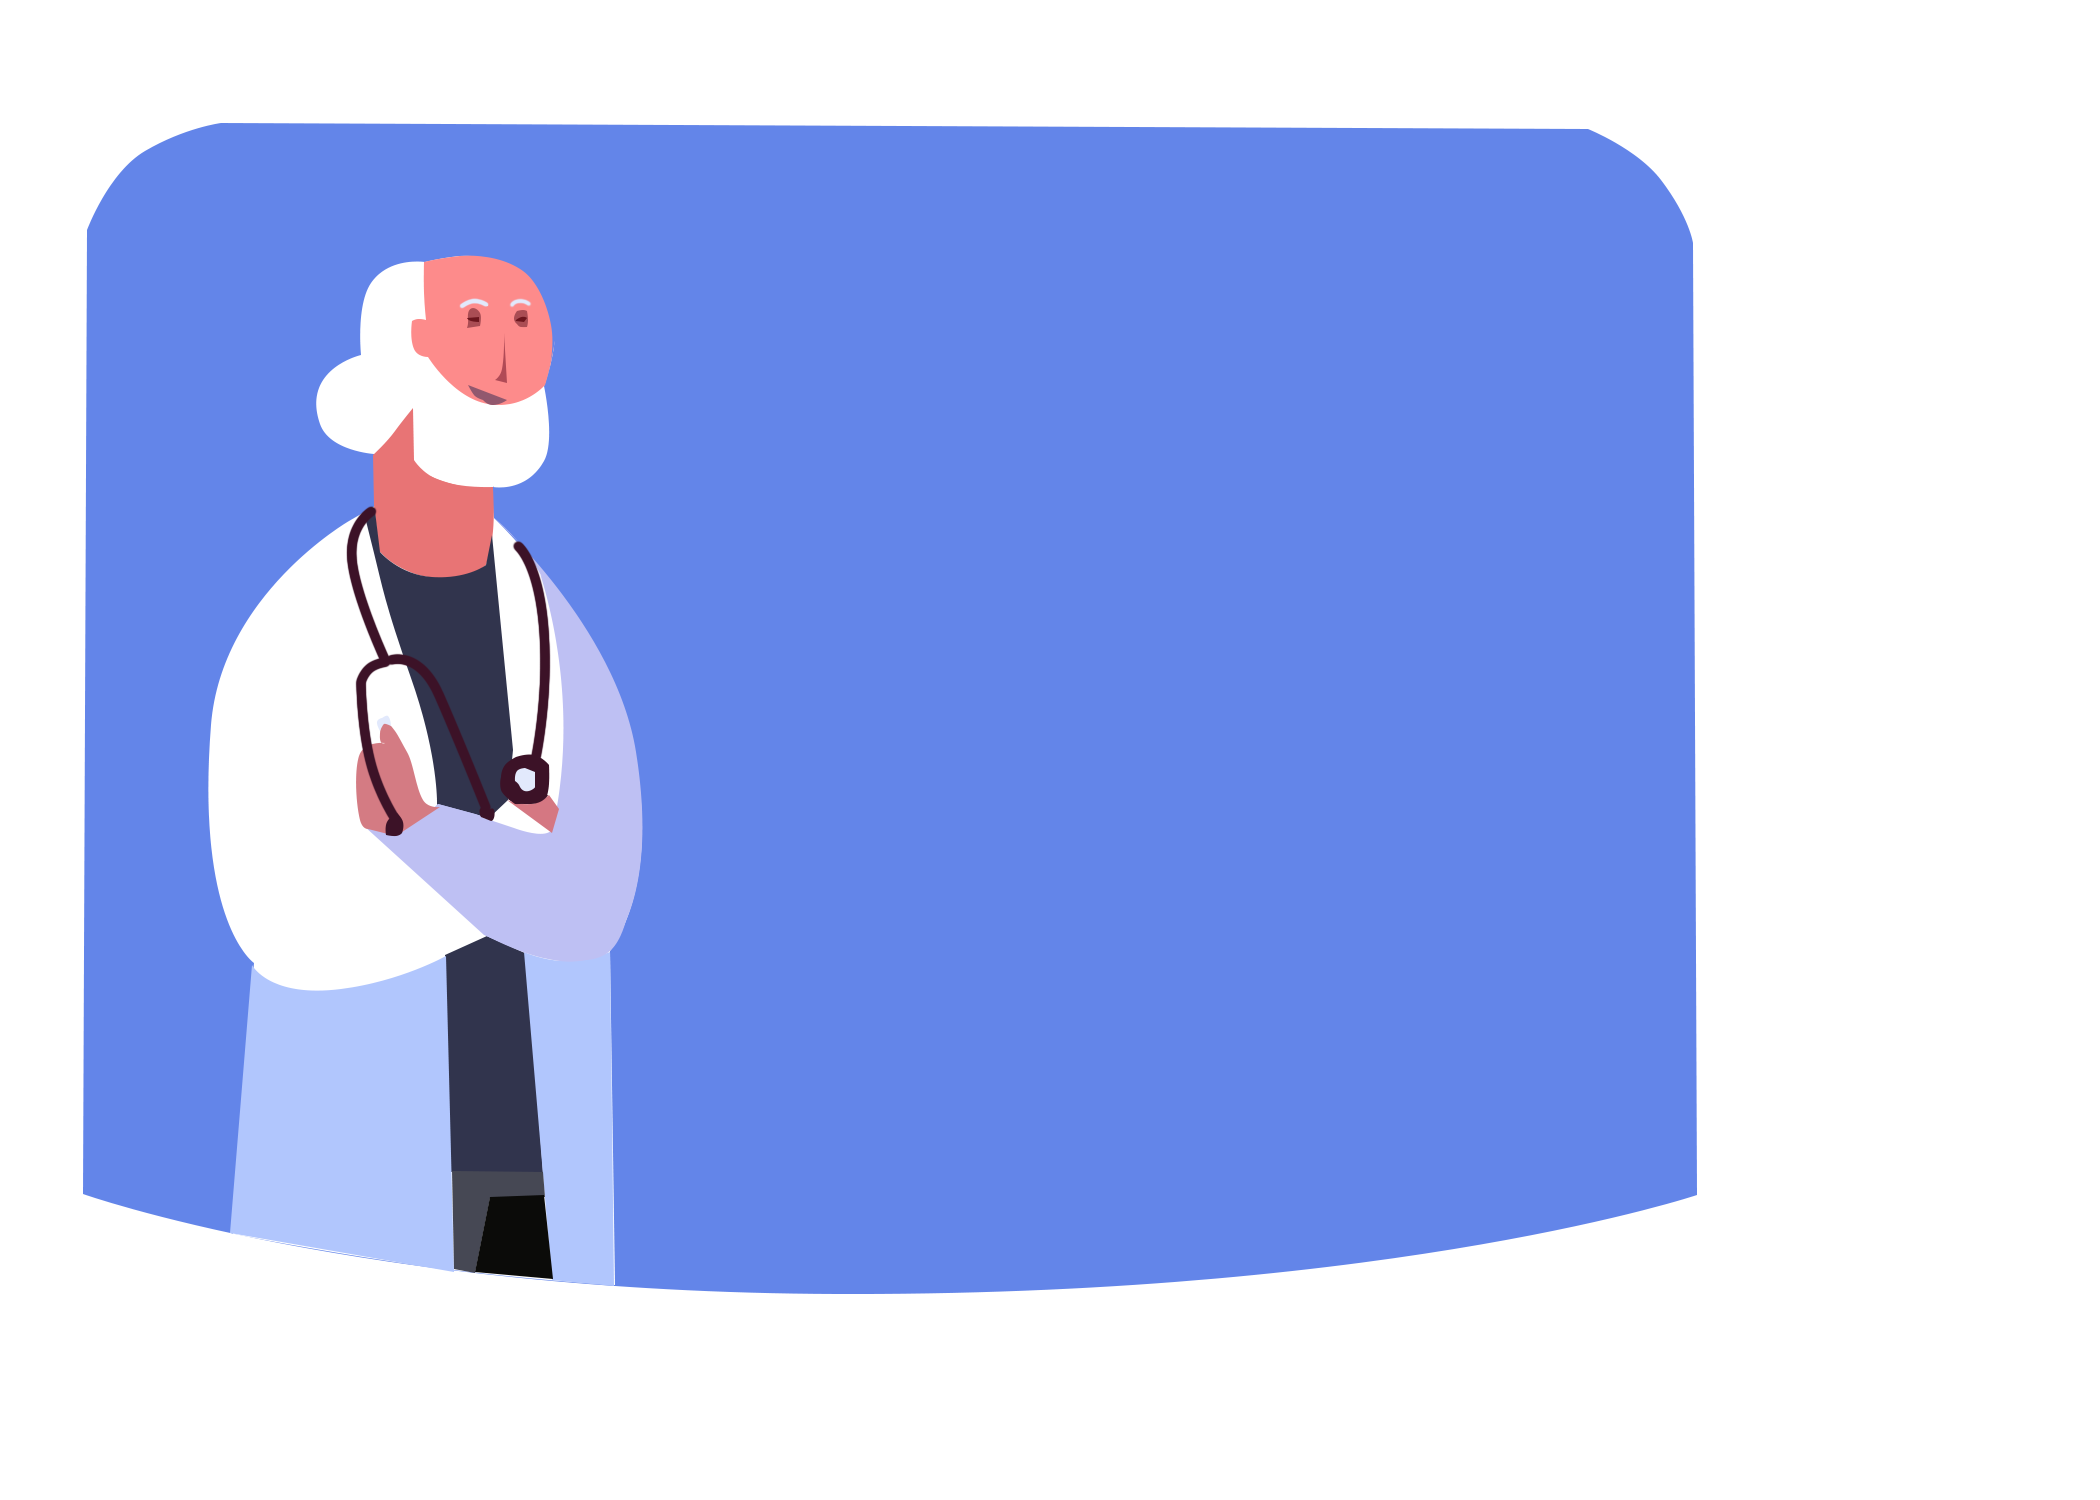
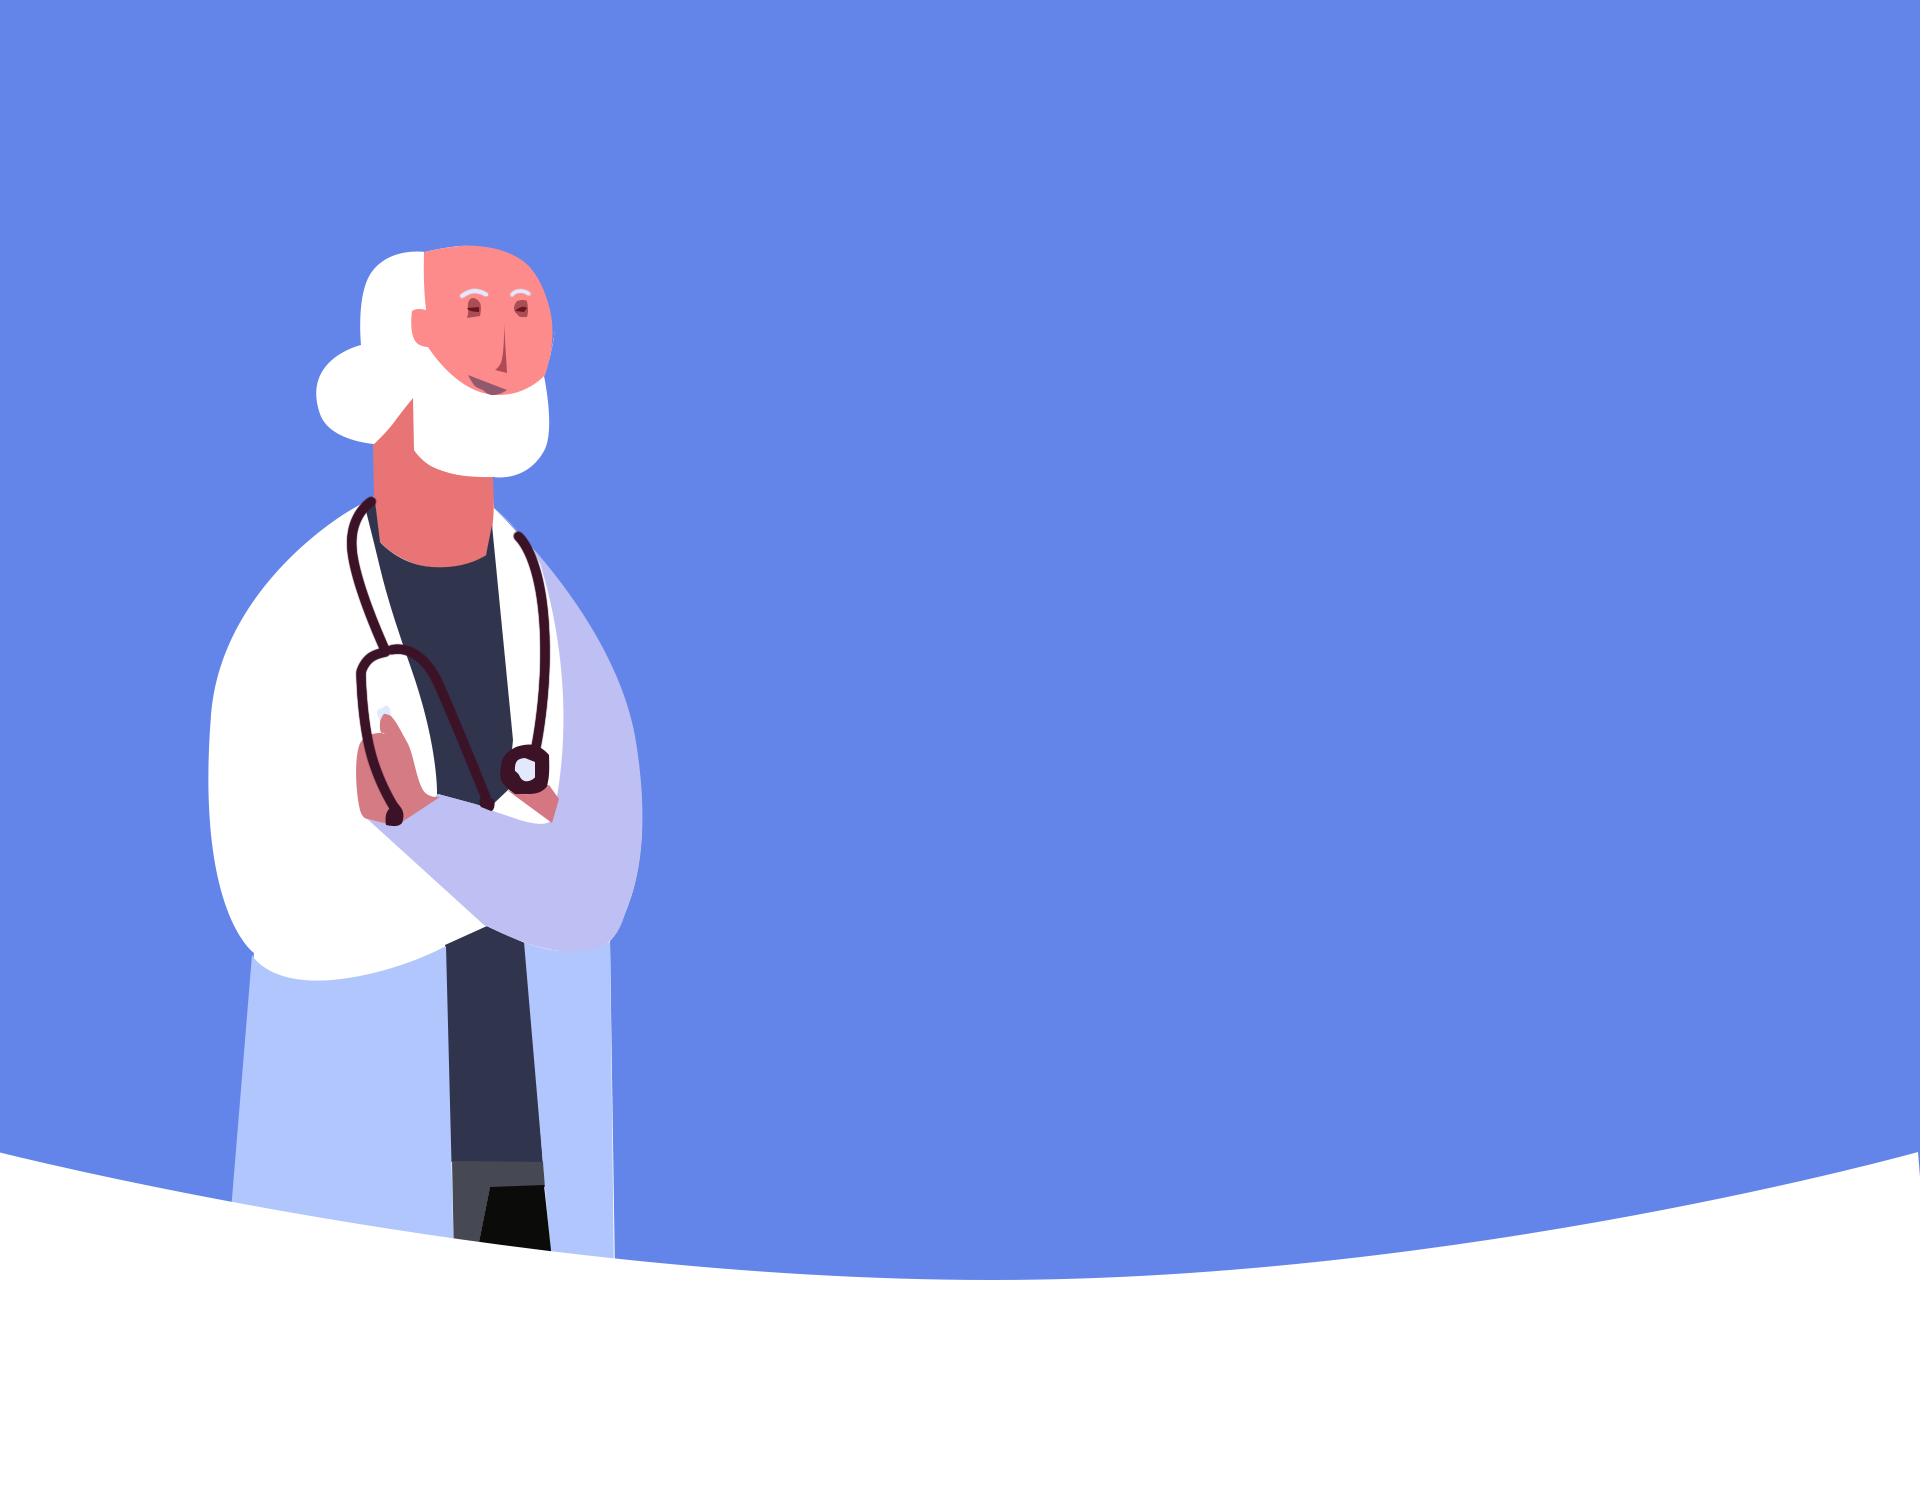
fix home screen

diff --git a/src/containers/pages/Landing/index.js b/src/containers/pages/Landing/index.js
@@ -29,7 +29,7 @@ class Landing extends Component {
         <ScrollView>
           <View style={{ position: 'relative', justifyContent: 'space-between' }}>
             <View style={{ marginHorizontal: '-8%' }}>
-              <Image style={{ width: 570, height: 310 }} source={require('../../../assets/dokter.png')} />
+              <Image style={{ width: 570, height: 410 }} source={require('../../../assets/dokter.png')} />
             </View>
             <View style={{ position: 'absolute', marginLeft: '40%', marginVertical: 70, position: 'absolute' }}>
               <Text style={{ fontSize: 20, top: '20%', textAlign: 'center', textAlign: 'left', paddingVertical: 10, color: 'white' }}> Hello!</Text>
